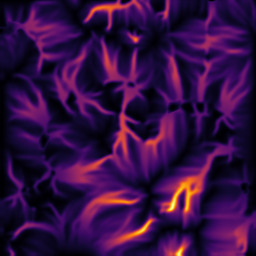
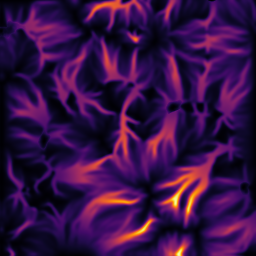
Add gradient scaling and deposition mimicing for hydraulic_stream_log algo

diff --git a/HighMap/src/erosion/hydraulic_stream.cpp b/HighMap/src/erosion/hydraulic_stream.cpp
@@ -15,6 +15,10 @@
 #include "highmap/primitives.hpp"
 #include "highmap/range.hpp"
 
+// #include "highmap/boundary.hpp"
+#include "highmap/blending.hpp"
+#include "highmap/gradient.hpp"
+
 namespace hmap
 {
 
@@ -101,7 +105,11 @@ void hydraulic_stream(Array &z,
 void hydraulic_stream_log(Array &z,
                           float  c_erosion,
                           float  talus_ref,
-                          float  gamma,
+                          int    deposition_ir,
+                          float  deposition_scale_ratio,
+                          float  gradient_power,
+                          float  gradient_scaling_ratio,
+                          int    gradient_prefilter_ir,
                           float  saturation_ratio,
                           Array *p_bedrock,
                           Array *p_moisture_map,
@@ -122,8 +130,6 @@ void hydraulic_stream_log(Array &z,
   if (saturation_ratio < 1.f)
     saturate(facc, 0.f, saturation_ratio, 0.1f * saturation_ratio);
 
-  gamma_correction(facc, gamma);
-
   if (ir > 1)
   {
     Array kernel = cone({ir, ir});
@@ -131,11 +137,30 @@ void hydraulic_stream_log(Array &z,
     facc = convolve2d_svd(facc, kernel);
   }
 
+  // scale erosion with local gradient
+  Array gn = gradient_norm(z);
+
+  // TODO next operations in one local pass
+  {
+    smooth_cpulse(gn, gradient_prefilter_ir);
+    remap(gn);
+    gn = pow(gn, gradient_power);
+    gn = smoothstep5_lower(gn);
+    facc *= (1.f - gradient_scaling_ratio) + gradient_scaling_ratio * gn;
+  }
+
   if (p_moisture_map)
     z -= (*p_moisture_map) * c_erosion * facc;
   else
     z -= c_erosion * facc;
 
+  // mimic deposition
+  Array zd = z;
+  smooth_fill_holes(zd, deposition_ir);
+  zd = blend_gradients(zd, z, deposition_ir);
+  z = lerp(z, zd, deposition_scale_ratio);
+
+  // enforce bedrock
   if (p_bedrock) z = maximum(*p_bedrock, z);
 
   // splatmaps
@@ -152,7 +177,11 @@ void hydraulic_stream_log(Array &z,
                           float  c_erosion,
                           float  talus_ref,
                           Array *p_mask,
-                          float  gamma,
+                          int    deposition_ir,
+                          float  deposition_scale_ratio,
+                          float  gradient_power,
+                          float  gradient_scaling_ratio,
+                          int    gradient_prefilter_ir,
                           float  saturation_ratio,
                           Array *p_moisture_map,
                           Array *p_bedrock,
@@ -164,7 +193,11 @@ void hydraulic_stream_log(Array &z,
     hydraulic_stream_log(z,
                          c_erosion,
                          talus_ref,
-                         gamma,
+                         deposition_ir,
+                         deposition_scale_ratio,
+                         gradient_power,
+                         gradient_scaling_ratio,
+                         gradient_prefilter_ir,
                          saturation_ratio,
                          p_bedrock,
                          p_moisture_map,
@@ -177,7 +210,11 @@ void hydraulic_stream_log(Array &z,
     hydraulic_stream_log(z_f,
                          c_erosion,
                          talus_ref,
-                         gamma,
+                         deposition_ir,
+                         deposition_scale_ratio,
+                         gradient_power,
+                         gradient_scaling_ratio,
+                         gradient_prefilter_ir,
                          saturation_ratio,
                          p_bedrock,
                          p_moisture_map,

diff --git a/HighMap/include/highmap/erosion.hpp b/HighMap/include/highmap/erosion.hpp
@@ -616,20 +616,29 @@ void hydraulic_stream_upscale_amplification(
  * @brief Apply hydraulic erosion based on a flow accumulation map, alternative
  * formulation.
  *
- * @param z Input array.
- * @param p_mask Intensity mask, expected in [0, 1] (applied as a
- * post-processing).
- * @param c_erosion Erosion coefficient.
- * @param talus_ref Reference talus used to localy define the flow-partition
- * exponent (small values of `talus_ref` will lead to thinner flow streams, see
+ * @param z Input array representing the terrain elevation.
+ * @param c_erosion Erosion coefficient controlling the intensity of erosion.
+ * @param talus_ref Reference talus used to locally define the flow-partition
+ * exponent. Small values lead to thinner flow streams (see
  * {@link flow_accumulation_dinf}).
- * @param gamma Gamma correction applied to the erosion.
- * @param p_bedrock Lower elevation limit.
- * @param p_moisture_map Reference to the moisture map (quantity of rain),
+ * @param deposition_ir Kernel radius for sediment deposition. If greater than
+ * 1, a smoothing effect is applied.
+ * @param deposition_scale_ratio Scaling factor for sediment deposition.
+ * @param gradient_power Exponent applied to the terrain gradient to control
+ * erosion intensity.
+ * @param gradient_scaling_ratio Scaling factor for gradient-based erosion.
+ * @param gradient_prefilter_ir Kernel radius for pre-filtering the terrain
+ * gradient.
+ * @param saturation_ratio Ratio controlling the water saturation threshold for
+ * erosion processes.
+ * @param p_bedrock Pointer to an optional lower elevation limit.
+ * @param p_moisture_map Pointer to the moisture map (rainfall quantity),
  * expected to be in [0, 1].
- * @param p_erosion_map[out] Reference to the erosion map, provided as an output
+ * @param p_erosion_map[out] Pointer to the erosion map, provided as an output
  * field.
- * @param ir Kernel radius. If `ir > 1`, a cone kernel is used to carv channel
+ * @param p_flow_map[out] Pointer to the flow accumulation map, provided as an
+ * output field.
+ * @param ir Kernel radius. If `ir > 1`, a cone kernel is used to carve channel
  * flow erosion.
  *
  * **Example**
@@ -642,7 +651,11 @@ void hydraulic_stream_upscale_amplification(
 void hydraulic_stream_log(Array &z,
                           float  c_erosion,
                           float  talus_ref,
-                          float  gamma = 1.f,
+                          int    deposition_ir = 32,
+                          float  deposition_scale_ratio = 1.f,
+                          float  gradient_power = 0.8f,
+                          float  gradient_scaling_ratio = 1.f,
+                          int    gradient_prefilter_ir = 16,
                           float  saturation_ratio = 1.f,
                           Array *p_bedrock = nullptr,
                           Array *p_moisture_map = nullptr,
@@ -654,7 +667,11 @@ void hydraulic_stream_log(Array &z,
                           float  c_erosion,
                           float  talus_ref,
                           Array *p_mask,
-                          float  gamma = 1.f,
+                          int    deposition_ir = 32,
+                          float  deposition_scale_ratio = 1.f,
+                          float  gradient_power = 0.8f,
+                          float  gradient_scaling_ratio = 1.f,
+                          int    gradient_prefilter_ir = 16,
                           float  saturation_ratio = 1.f,
                           Array *p_bedrock = nullptr,
                           Array *p_moisture_map = nullptr,

diff --git a/HighMap/src/math/math.cpp b/HighMap/src/math/math.cpp
@@ -261,9 +261,29 @@ float smoothstep3_lower(const float x)
   return x * (2.f * x - x * x);
 }
 
+Array smoothstep3_lower(const Array &x)
+{
+  Array array_out = Array(x.shape);
+  std::transform(x.vector.begin(),
+                 x.vector.end(),
+                 array_out.vector.begin(),
+                 [](float v) { return smoothstep3_lower(v); });
+  return array_out;
+}
+
 float smoothstep3_upper(const float x)
 {
   return x * (1.f + x - x * x);
+}
+
+Array smoothstep3_upper(const Array &x)
+{
+  Array array_out = Array(x.shape);
+  std::transform(x.vector.begin(),
+                 x.vector.end(),
+                 array_out.vector.begin(),
+                 [](float v) { return smoothstep3_upper(v); });
+  return array_out;
 }
 
 Array smoothstep5(const Array &array, float vmin, float vmax)
@@ -320,9 +340,29 @@ float smoothstep5_lower(const float x)
   return x * x * x * (6.f - 8.f * x + 3.f * x * x);
 }
 
+Array smoothstep5_lower(const Array &x)
+{
+  Array array_out = Array(x.shape);
+  std::transform(x.vector.begin(),
+                 x.vector.end(),
+                 array_out.vector.begin(),
+                 [](float v) { return smoothstep5_lower(v); });
+  return array_out;
+}
+
 float smoothstep5_upper(const float x)
 {
   return x * (1.f + x * x * (4.f - 7.f * x + 3.f * x * x));
+}
+
+Array smoothstep5_upper(const Array &x)
+{
+  Array array_out = Array(x.shape);
+  std::transform(x.vector.begin(),
+                 x.vector.end(),
+                 array_out.vector.begin(),
+                 [](float v) { return smoothstep5_upper(v); });
+  return array_out;
 }
 
 float smoothstep7(const float x)
@@ -334,6 +374,16 @@ float smoothstep7(const float x)
   float x6 = x5 * x;
   float x7 = x6 * x;
   return -20.f * x7 + 70.f * x6 - 84.f * x5 + 35.f * x4;
+}
+
+Array smoothstep7(const Array &x)
+{
+  Array array_out = Array(x.shape);
+  std::transform(x.vector.begin(),
+                 x.vector.end(),
+                 array_out.vector.begin(),
+                 [](float v) { return smoothstep7(v); });
+  return array_out;
 }
 
 Array sqrt(const Array &array)

diff --git a/HighMap/include/highmap/math.hpp b/HighMap/include/highmap/math.hpp
@@ -346,6 +346,7 @@ float smoothstep3(const float x);
  * @return float Output.
  */
 float smoothstep3_lower(const float x);
+Array smoothstep3_lower(const Array &x); ///< @overload
 
 /**
  * @brief Return the 3rd order smoothstep function, with zero derivative only
@@ -355,6 +356,7 @@ float smoothstep3_lower(const float x);
  * @return float Output.
  */
 float smoothstep3_upper(const float x);
+Array smoothstep3_upper(const Array &x); ///< @overload
 
 /**
  * @brief Return the 5rd order smoothstep function of the array elements.
@@ -391,6 +393,7 @@ float smoothstep5(const float x);
  * @return float Output.
  */
 float smoothstep5_lower(const float x);
+Array smoothstep5_lower(const Array &x); ///< @overload
 
 /**
  * @brief Return the 5rd order smoothstep function, with zero derivative only
@@ -400,6 +403,7 @@ float smoothstep5_lower(const float x);
  * @return float Output.
  */
 float smoothstep5_upper(const float x);
+Array smoothstep5_upper(const Array &x); ///< @overload
 
 /**
  * @brief Return the 7th order smoothstep function.
@@ -408,6 +412,7 @@ float smoothstep5_upper(const float x);
  * @return float Output.
  */
 float smoothstep7(const float x);
+Array smoothstep7(const Array &x); ///< @overload
 
 /**
  * @brief Return the square root of the array elements.

diff --git a/examples/ex_hydraulic_stream/ex_hydraulic_stream.cpp b/examples/ex_hydraulic_stream/ex_hydraulic_stream.cpp
@@ -2,7 +2,8 @@
 
 int main(void)
 {
-  hmap::Vec2<int>   shape = {256, 256};
+  hmap::Vec2<int> shape = {256, 256};
+  // shape = {1024, 1024};
   hmap::Vec2<float> res = {2.f, 2.f};
   int               seed = 1;
 
@@ -34,8 +35,11 @@ int main(void)
 
   // log scale
   auto z3 = z;
+  int  deposition_ir = 32;
+  c_erosion = 0.2f;
+  hmap::hydraulic_stream_log(z3, c_erosion, talus_ref, deposition_ir);
 
-  hmap::hydraulic_stream_log(z3, c_erosion, talus_ref);
+  z3.dump();
 
   hmap::export_banner_png("ex_hydraulic_stream0.png",
                           {z0, z1, z2, z3},
